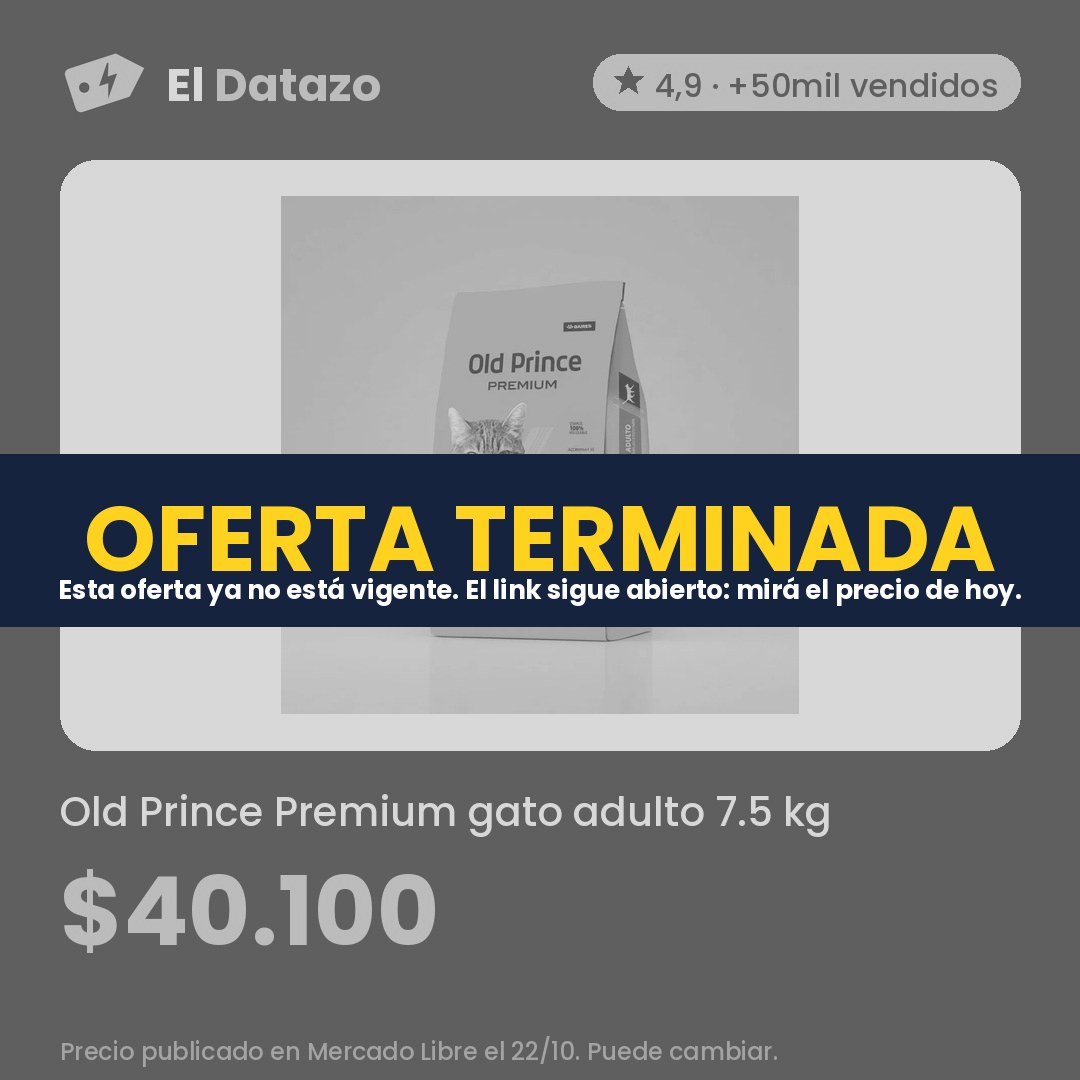
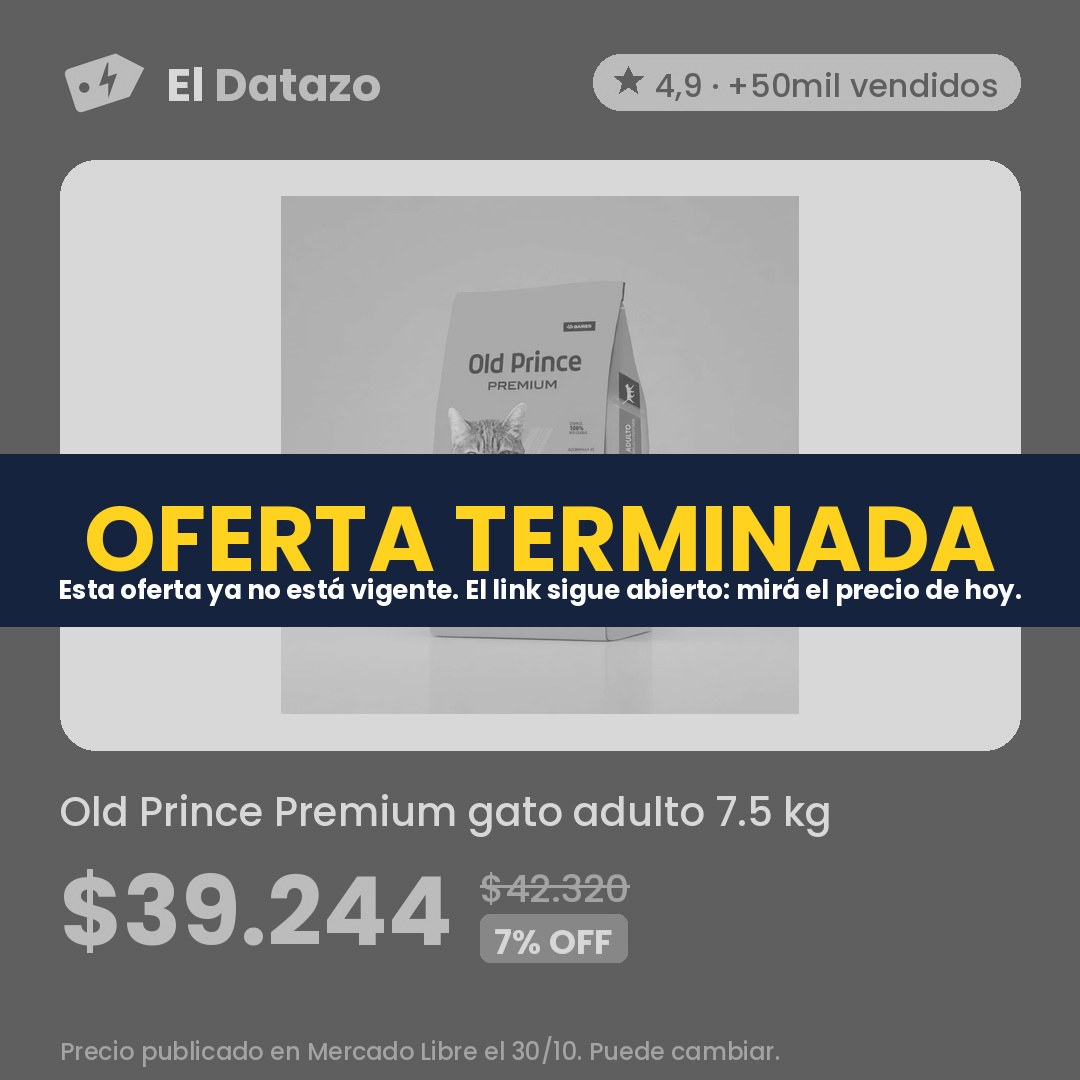
Ofertas 2026-10-31 19:33

Changed region(s): [[0.1222, 0.7944, 0.5806, 0.9167], [0.4889, 0.9472, 0.7028, 0.9778]]

diff --git a/index.html b/index.html
@@ -293,7 +293,7 @@ padding:3px 9px;border-radius:999px}
       <p class="hero-precio">$45.777</p>
       <p class="hero-antes"><s>$69.499</s> <span class="off">34% OFF</span></p>
       
-      <p class="nota">Precio del 26/10 en Mercado Libre, revisado hoy a las 11:30. Puede cambiar.</p>
+      <p class="nota">Precio del 26/10 en Mercado Libre, revisado hoy a las 16:33. Puede cambiar.</p>
       <a class="boton oscuro" href="https://meli.la/19eMhmv" rel="sponsored noopener" target="_blank"
          data-oferta="MLA22764635">Ver oferta en Mercado Libre</a>
       <a class="compartir" href="https://wa.me/?text=Mir%C3%A1%20este%20datazo%3A%20Colch%C3%B3n%20Inflable%20Doble%20Klimber%20%2B%20Inflador%20%2B%202%20Almohadas%20a%20%2445.777%20https%3A//eldatazo.com.ar/%23MLA22764635" target="_blank" rel="noopener" data-estilo="texto"><svg viewBox="0 0 24 24" width="16" height="16" aria-hidden="true"><path d="M4 20l1.3-4A8 8 0 1 1 8 18.7L4 20z" fill="none" stroke="currentColor" stroke-width="2" stroke-linejoin="round"/></svg> Compartir por WhatsApp</a>
@@ -301,7 +301,7 @@ padding:3px 9px;border-radius:999px}
   </section>
       
   <section class="franja-bajo" aria-labelledby="bajo-titulo">
-    <h2 id="bajo-titulo">⬇ Bajaron de precio <span>13</span></h2>
+    <h2 id="bajo-titulo">⬇ Bajaron de precio <span>12</span></h2>
     <ul class="franja-lista">
         <li><a href="#MLA69121337"><img src="img/MLA69121337.jpg" alt="" loading="lazy">
           <span><b>Figuritas Panini X 25 Sobres World Cup 2026 Mundial 2026</b><span class="ahora">$41.848</span><s>$48.980</s> <span class="bajo">⬇ Bajó</span></span></a></li>
@@ -309,8 +309,6 @@ padding:3px 9px;border-radius:999px}
           <span><b>Bomba Periferica Elevadora Agua Vasser 1/2 Hp 20mts caudal 30 l/m</b><span class="ahora">$41.159</span> <span class="bajo">⬇ Volvió</span></span></a></li>
         <li><a href="#MLA28052339"><img src="img/MLA28052339.jpg" alt="" loading="lazy">
           <span><b>Pañales Pampers deluxe protection XXG x 54 unidades</b><span class="ahora">$42.008</span> <span class="bajo">⬇ Volvió</span></span></a></li>
-        <li><a href="#MLA25363194"><img src="img/MLA25363194.jpg" alt="" loading="lazy">
-          <span><b>Old Prince Premium gato adulto 7.5 kg</b><span class="ahora">$39.244</span> <span class="bajo">⬇ Volvió</span></span></a></li>
         <li><a href="https://meli.la/2bhn3SU" rel="sponsored noopener" target="_blank" data-oferta="MLA29031346"><img src="https://http2.mlstatic.com/D_Q_NP_930271-MLA99501053204_112025-AB.webp" alt="" loading="lazy" referrerpolicy="no-referrer">
           <span><b>Kit X 2 Handy Baofeng Radio Walkie Talkie Bf888s 16ch Uhf Bandas de frecuencia 16 Color Negro</b><span class="ahora">$31.448</span><s>$45.000</s>
           <span class="bajo">⬇ Bajó</span></span></a></li>
@@ -335,6 +333,9 @@ padding:3px 9px;border-radius:999px}
         <li><a href="https://meli.la/1bvAc5G" rel="sponsored noopener" target="_blank" data-oferta="MLA41149389"><img src="https://http2.mlstatic.com/D_Q_NP_607503-MLA115610455682_092026-AB.webp" alt="" loading="lazy" referrerpolicy="no-referrer">
           <span><b>Auriculares Xiaomi Redmi Buds 6 Play Inalámbricos Bluetooth 5.4 36 h In-ear Blanco</b><span class="ahora">$22.500</span><s>$25.450</s>
           <span class="bajo">⬇ Bajó</span></span></a></li>
+        <li><a href="https://meli.la/2rzcdBb" rel="sponsored noopener" target="_blank" data-oferta="MLA39962085"><img src="https://http2.mlstatic.com/D_Q_NP_650532-MLA116572628066_092026-AB.webp" alt="" loading="lazy" referrerpolicy="no-referrer">
+          <span><b>Auriculares Xiaomi Redmi Buds 6 Play Inalámbricos Bluetooth 5.4 36 h Negro</b><span class="ahora">$22.699</span><s>$23.999</s>
+          <span class="bajo">⬇ Bajó</span></span></a></li>
     </ul>
   </section>
       
@@ -354,8 +355,8 @@ padding:3px 9px;border-radius:999px}
             <option value="precio">Más baratas</option>
           </select></label>
       </div>
-      <div class="chips" role="group" aria-label="Rubro"><button type="button" data-filtro="" aria-pressed="true">Todo</button><button type="button" data-filtro="MLA1384" aria-pressed="false">Bebés <span>1</span></button><button type="button" data-filtro="MLA1500" aria-pressed="false">Construcción <span>1</span></button><button type="button" data-filtro="MLA1499" aria-pressed="false">Industrias y Oficinas <span>1</span></button><button type="button" data-filtro="MLA1132" aria-pressed="false">Juegos y Juguetes <span>1</span></button><button type="button" data-filtro="MLA1071" aria-pressed="false">Mascotas <span>1</span></button></div>
-      <p class="contador" aria-live="polite"><span data-cuenta>5</span> ofertas</p>
+      <div class="chips" role="group" aria-label="Rubro"><button type="button" data-filtro="" aria-pressed="true">Todo</button><button type="button" data-filtro="MLA1384" aria-pressed="false">Bebés <span>1</span></button><button type="button" data-filtro="MLA1500" aria-pressed="false">Construcción <span>1</span></button><button type="button" data-filtro="MLA1499" aria-pressed="false">Industrias y Oficinas <span>1</span></button><button type="button" data-filtro="MLA1132" aria-pressed="false">Juegos y Juguetes <span>1</span></button></div>
+      <p class="contador" aria-live="polite"><span data-cuenta>4</span> ofertas</p>
     </div>
     <div class="grilla activas">
       <article class="tarjeta destacada" id="MLA69121337" data-rubro="MLA1132" data-off="0" data-pub="2026-10-30" data-quedan="6" data-precio="41848" data-bajo="16" data-texto="figuritas panini x 25 sobres world cup 2026 mundial 2026">
@@ -367,7 +368,7 @@ padding:3px 9px;border-radius:999px}
           <h3>Figuritas Panini X 25 Sobres World Cup 2026 Mundial 2026</h3>
           <p class="precios "><span class="precio">$41.848</span></p>
           <p class="bajo">Antes $48.980 el 28/10 · 15% menos</p>
-          <p class="nota">Precio del 30/10 en Mercado Libre, revisado hoy a las 11:30. Puede cambiar.</p>
+          <p class="nota">Precio del 30/10 en Mercado Libre, revisado hoy a las 16:33. Puede cambiar.</p>
           <div class="acciones">
             <a class="boton" href="https://meli.la/1qNpAcw" rel="sponsored noopener" target="_blank"
                data-oferta="MLA69121337">Ver oferta</a>
@@ -385,7 +386,7 @@ padding:3px 9px;border-radius:999px}
           <h3>Bomba Periferica Elevadora Agua Vasser 1/2 Hp 20mts caudal 30 l/m</h3>
           <p class="precios "><span class="precio">$41.159</span><s class="antes">$51.449</s><span class="off">20% OFF</span></p>
           <p class="bajo">Había terminado y volvió al mismo precio</p>
-          <p class="nota">Precio del 30/10 en Mercado Libre, revisado hoy a las 11:30. Puede cambiar.</p>
+          <p class="nota">Precio del 30/10 en Mercado Libre, revisado hoy a las 16:33. Puede cambiar.</p>
           <div class="acciones">
             <a class="boton" href="https://meli.la/2nztThe" rel="sponsored noopener" target="_blank"
                data-oferta="MLA19576694">Ver oferta</a>
@@ -403,29 +404,11 @@ padding:3px 9px;border-radius:999px}
           <h3>Pañales Pampers deluxe protection XXG x 54 unidades</h3>
           <p class="precios "><span class="precio">$42.008</span><s class="antes">$50.000</s><span class="off">16% OFF</span></p>
           <p class="bajo">Había terminado y volvió al mismo precio</p>
-          <p class="nota">Precio del 29/10 en Mercado Libre, revisado hoy a las 11:30. Puede cambiar.</p>
+          <p class="nota">Precio del 29/10 en Mercado Libre, revisado hoy a las 16:33. Puede cambiar.</p>
           <div class="acciones">
             <a class="boton" href="https://meli.la/2kAwAe6" rel="sponsored noopener" target="_blank"
                data-oferta="MLA28052339">Ver oferta</a>
             <a class="compartir" href="https://wa.me/?text=Mir%C3%A1%20este%20datazo%3A%20Pa%C3%B1ales%20Pampers%20deluxe%20protection%20XXG%20x%2054%20unidades%20a%20%2442.008%20https%3A//eldatazo.com.ar/%23MLA28052339" target="_blank" rel="noopener"
-               aria-label="Compartir por WhatsApp" title="Compartir por WhatsApp"><svg viewBox="0 0 24 24" width="16" height="16" aria-hidden="true"><path d="M4 20l1.3-4A8 8 0 1 1 8 18.7L4 20z" fill="none" stroke="currentColor" stroke-width="2" stroke-linejoin="round"/></svg></a>
-          </div>
-        </div>
-      </article>
-      <article class="tarjeta destacada" id="MLA25363194" data-rubro="MLA1071" data-off="7" data-pub="2026-10-27" data-quedan="3" data-precio="39244" data-bajo="1" data-texto="old prince premium gato adulto 7.5 kg">
-        <div class="tarjeta-foto">
-          <img src="img/MLA25363194.jpg" alt="Old Prince Premium gato adulto 7.5 kg" loading="lazy" width="1080" height="1080">
-        </div>
-        <div class="cuerpo">
-          <div class="fila"><span class="sello baja">⬇ Volvió</span><span class="sello">Quedan 3 días</span><span class="rubro">Mascotas</span></div>
-          <h3>Old Prince Premium gato adulto 7.5 kg</h3>
-          <p class="precios "><span class="precio">$39.244</span><s class="antes">$42.320</s><span class="off">7% OFF</span></p>
-          <p class="bajo">Había terminado y volvió al mismo precio</p>
-          <p class="nota">Precio del 30/10 en Mercado Libre, revisado hoy a las 11:30. Puede cambiar.</p>
-          <div class="acciones">
-            <a class="boton" href="https://meli.la/2zmmmFA" rel="sponsored noopener" target="_blank"
-               data-oferta="MLA25363194">Ver oferta</a>
-            <a class="compartir" href="https://wa.me/?text=Mir%C3%A1%20este%20datazo%3A%20Old%20Prince%20Premium%20gato%20adulto%207.5%20kg%20a%20%2439.244%20https%3A//eldatazo.com.ar/%23MLA25363194" target="_blank" rel="noopener"
                aria-label="Compartir por WhatsApp" title="Compartir por WhatsApp"><svg viewBox="0 0 24 24" width="16" height="16" aria-hidden="true"><path d="M4 20l1.3-4A8 8 0 1 1 8 18.7L4 20z" fill="none" stroke="currentColor" stroke-width="2" stroke-linejoin="round"/></svg></a>
           </div>
         </div>
@@ -439,7 +422,7 @@ padding:3px 9px;border-radius:999px}
           <h3>Rotuladora Portátil Niimbot Etiquetadora Manual Impresora Color Blanco D110</h3>
           <p class="precios "><span class="precio">$41.040</span><s class="antes">$58.900</s><span class="off">30% OFF</span></p>
           
-          <p class="nota">Precio del 26/10 en Mercado Libre, revisado hoy a las 11:30. Puede cambiar.</p>
+          <p class="nota">Precio del 26/10 en Mercado Libre, revisado hoy a las 16:33. Puede cambiar.</p>
           <div class="acciones">
             <a class="boton" href="https://meli.la/1czSFp6" rel="sponsored noopener" target="_blank"
                data-oferta="MLA45260672">Ver oferta</a>
@@ -929,6 +912,17 @@ padding:3px 9px;border-radius:999px}
              data-oferta="MLA24983473">Ver precio de hoy</a>
         </div>
       </article>
+      <article class="tarjeta terminada" id="MLA25363194">
+        <div class="tarjeta-foto">
+          <img src="img/MLA25363194_terminada.jpg" alt="Old Prince Premium gato adulto 7.5 kg" loading="lazy" width="1080" height="1080">
+        </div>
+        <div class="cuerpo">
+          <h3>Old Prince Premium gato adulto 7.5 kg</h3>
+          <p class="nota">Terminó el 31/10. El link sigue abierto: mirá el precio de hoy.</p>
+          <a class="boton suave" href="https://meli.la/2zmmmFA" rel="sponsored noopener" target="_blank"
+             data-oferta="MLA25363194">Ver precio de hoy</a>
+        </div>
+      </article>
       <article class="tarjeta terminada" id="MLA28254149">
         <div class="tarjeta-foto">
           <img src="img/MLA28254149_terminada.jpg" alt="Bomba Presurizadora Elevadora 2 Baños Presion Kommberg 120w KB-EP120" loading="lazy" width="1080" height="1080">
@@ -1182,17 +1176,6 @@ padding:3px 9px;border-radius:999px}
              data-oferta="MLA47200126">Ver precio de hoy</a>
         </div>
       </article>
-      <article class="tarjeta terminada" id="MLA76118504">
-        <div class="tarjeta-foto">
-          <img src="img/MLA76118504_terminada.jpg" alt="Tensiometro Digital Brazo Bluetooth Presion Arterial Aparato Para Tomar Presion Batería Recargable Usb Medidor Automatico Femmto KF-DT65S" loading="lazy" width="1080" height="1080">
-        </div>
-        <div class="cuerpo">
-          <h3>Tensiometro Digital Brazo Bluetooth Presion Arterial Aparato Para Tomar Presion Batería Recargable Usb Medidor Automatico Femmto KF-DT65S</h3>
-          <p class="nota">Terminó el 27/10. El link sigue abierto: mirá el precio de hoy.</p>
-          <a class="boton suave" href="https://meli.la/2V53bXq" rel="sponsored noopener" target="_blank"
-             data-oferta="MLA76118504">Ver precio de hoy</a>
-        </div>
-      </article>
 </div></details>
     </div>
   </main>
@@ -1201,7 +1184,7 @@ padding:3px 9px;border-radius:999px}
       <nav class="redes" aria-label="Redes de El Datazo"><a class="red" href="https://www.instagram.com/eldatazo.arg/" target="_blank" rel="noopener"><svg viewBox="0 0 24 24" width="18" height="18" aria-hidden="true"><rect x="3" y="3" width="18" height="18" rx="5" fill="none" stroke="currentColor" stroke-width="2"/><circle cx="12" cy="12" r="4" fill="none" stroke="currentColor" stroke-width="2"/><circle cx="17.5" cy="6.5" r="1.3" fill="currentColor"/></svg> Instagram</a><a class="red" href="https://www.facebook.com/profile.php?id=61595441168911" target="_blank" rel="noopener"><svg viewBox="0 0 24 24" width="18" height="18" aria-hidden="true"><path d="M14 8h3V4h-3a4 4 0 0 0-4 4v2H7v4h3v8h4v-8h3l1-4h-4V8z" fill="currentColor"/></svg> Facebook</a><a class="red" href="https://t.me/eldatazo_ofertas" target="_blank" rel="noopener"><svg viewBox="0 0 24 24" width="18" height="18" aria-hidden="true"><path d="M21 4 3 11l5 2 2 6 3-4 5 4 3-15zM9 13l9-6-7 8" fill="none" stroke="currentColor" stroke-width="1.8" stroke-linejoin="round"/></svg> Telegram</a></nav>
       <p>Los links son de afiliado de Mercado Libre: si comprás, El Datazo puede recibir una comisión, sin que cambie
       tu precio. Los precios son los publicados en Mercado Libre el día indicado y pueden cambiar.</p>
-      <p>Actualizado el 31/10/2026 11:31 (hora argentina) · <a href="privacidad/">Privacidad</a></p>
+      <p>Actualizado el 31/10/2026 16:33 (hora argentina) · <a href="privacidad/">Privacidad</a></p>
     </div>
   </footer>
   
